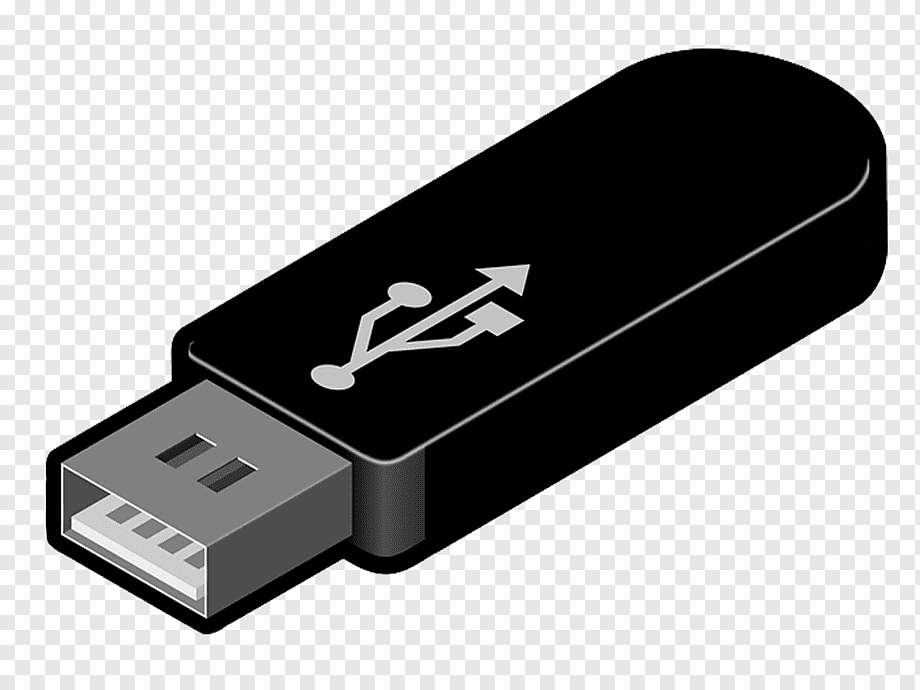
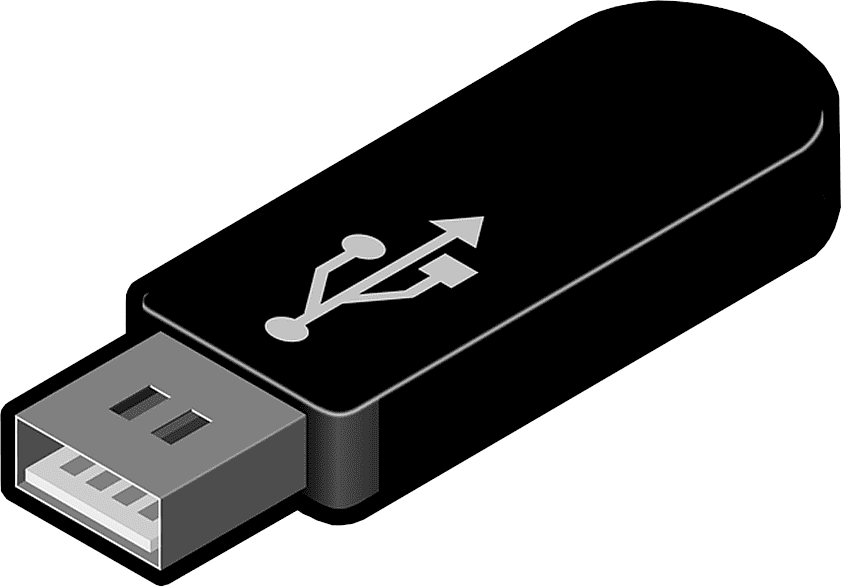
Se incorporó fetch para visualizar imágen del dispositivo borrado

diff --git a/index.js b/index.js
@@ -7,6 +7,7 @@ let veces;
 let fecha;
 let hora;
 let fechaActual;
+let urlImagen;
 class Dispositivo {
     constructor(nDisp, tipo, tamano, veces, fecha, hora) {
         this.nDisp = nDisp;
@@ -18,8 +19,6 @@ class Dispositivo {
     }
 }
 
-
-
 function resumen() {
     for (const disp of arrDispositivos) {
         nDisp = disp.nDisp;
@@ -28,13 +27,9 @@ function resumen() {
         veces = disp.veces;
         fecha = disp.fecha;
         hora = disp.hora;
-        console.log(arrDispositivos);
-
-
-        
     }
 
-        const generaResumen = document.getElementById("resultado_sobreescritura");
+    const generaResumen = document.getElementById("resultado_sobreescritura");
     generaResumen.innerHTML = `<h2>Resultados del borrado seguro</h2>
                             <hr>
                                 <ul id="listaResultado">
@@ -44,10 +39,33 @@ function resumen() {
                                 <li><strong>Veces que fue sobreescrito:</strong> ${veces}</li>
                                 <li><strong>Fecha procedimento:</strong> ${fecha}</li>
                                 <li><strong>Hora del procedimento:</strong> ${hora}</li>
-                            </ul>
-                            <input name="borrarOtro" id="borrarOtro" type="button" value="Borrar otro dispositivo" onclick = "BorrarOtroDispositivo()">`;
-    
-                            bloqueaFormulario();
+                                </ul>
+                                <hr>
+                            `;
+
+    const imagenDispositivo = document.querySelector("#resultado_sobreescritura");
+    const origenJSON = "/data.json";
+
+    fetch(origenJSON)
+        .then((res) => res.json())
+        .then((data) => {
+            data.forEach((dispositivo) => {
+                if (dispositivo.descripcion === tipo) {
+                    urlImagen = dispositivo.imagen;
+                    const divImagen = document.createElement("div");
+                    divImagen.innerHTML = `
+                    <img src="${urlImagen}"></img>
+                    <hr/>
+                    <input name="borrarOtro" id="borrarOtro" type="button" value="Borrar otro dispositivo" onclick = "BorrarOtroDispositivo()">
+                `;
+                imagenDispositivo.append(divImagen);
+                } 
+
+            });
+        });
+
+    bloqueaFormulario();
+
 }
 
 function bloqueaFormulario() {
@@ -90,7 +108,6 @@ function agregaDispositivo(e) {
         title: "¿Estás seguro?",
         text: "Una vez borrado el dispositivo, ya no podrás recuperar los archivos",
         icon: "warning",
-        /*buttons: true,*/
         buttons: ["Cancelar", "Borrar"],
         dangerMode: true,
     }).then((willDelete) => {
@@ -130,6 +147,5 @@ let borrandoDisp = document.getElementById("dispositivo")
 borrandoDisp.addEventListener(`input`, () => {
     let dispBorrado = borrandoDisp.value;
 
-    console.log(borrandoDisp.value);
     document.getElementById("contadorDisp").innerHTML = `<strong>Evento.</strong> Preparado para borrar el dispositivo Nº <strong>${contadorDisp}: ${dispBorrado}</strong>`;
 })

diff --git a/prueba.html b/prueba.html
@@ -19,13 +19,14 @@
     const lista = document.querySelector("#listado");
     const imagen = document.querySelector("#imagen");
 
-    const dispBuscar = "USB";
+    const dispBuscar = "Disco duro de estado sólido (SSD)";
 
     fetch("/data.json")
       .then((res) => res.json())
       .then((data) => {
         data.forEach((dispositivo) => {
-          if (dispositivo.tipo === dispBuscar) {
+          if (dispositivo.descripcion === dispBuscar) {
+            console.log(dispositivo.tipo);
             const div = document.createElement("div");
             div.innerHTML = `
              <h4>${dispositivo.tipo}</h4>

diff --git a/index.html b/index.html
@@ -45,6 +45,9 @@
         <h2>Resultados del borrado seguro</h2>
         <ul id="listaResultado">
         </ul>
+        <div id="imagenDispositivo">
+
+        </div>
     </div>
 
     <div id="log_contadorDisp">

diff --git a/style.css b/style.css
@@ -85,3 +85,9 @@ h2 {
     border-top: 1px solid #E9EEF1;
     overflow: hidden;
   }
+
+  img {
+      max-width: 75%;
+      margin: auto;
+      display: block;
+  }
